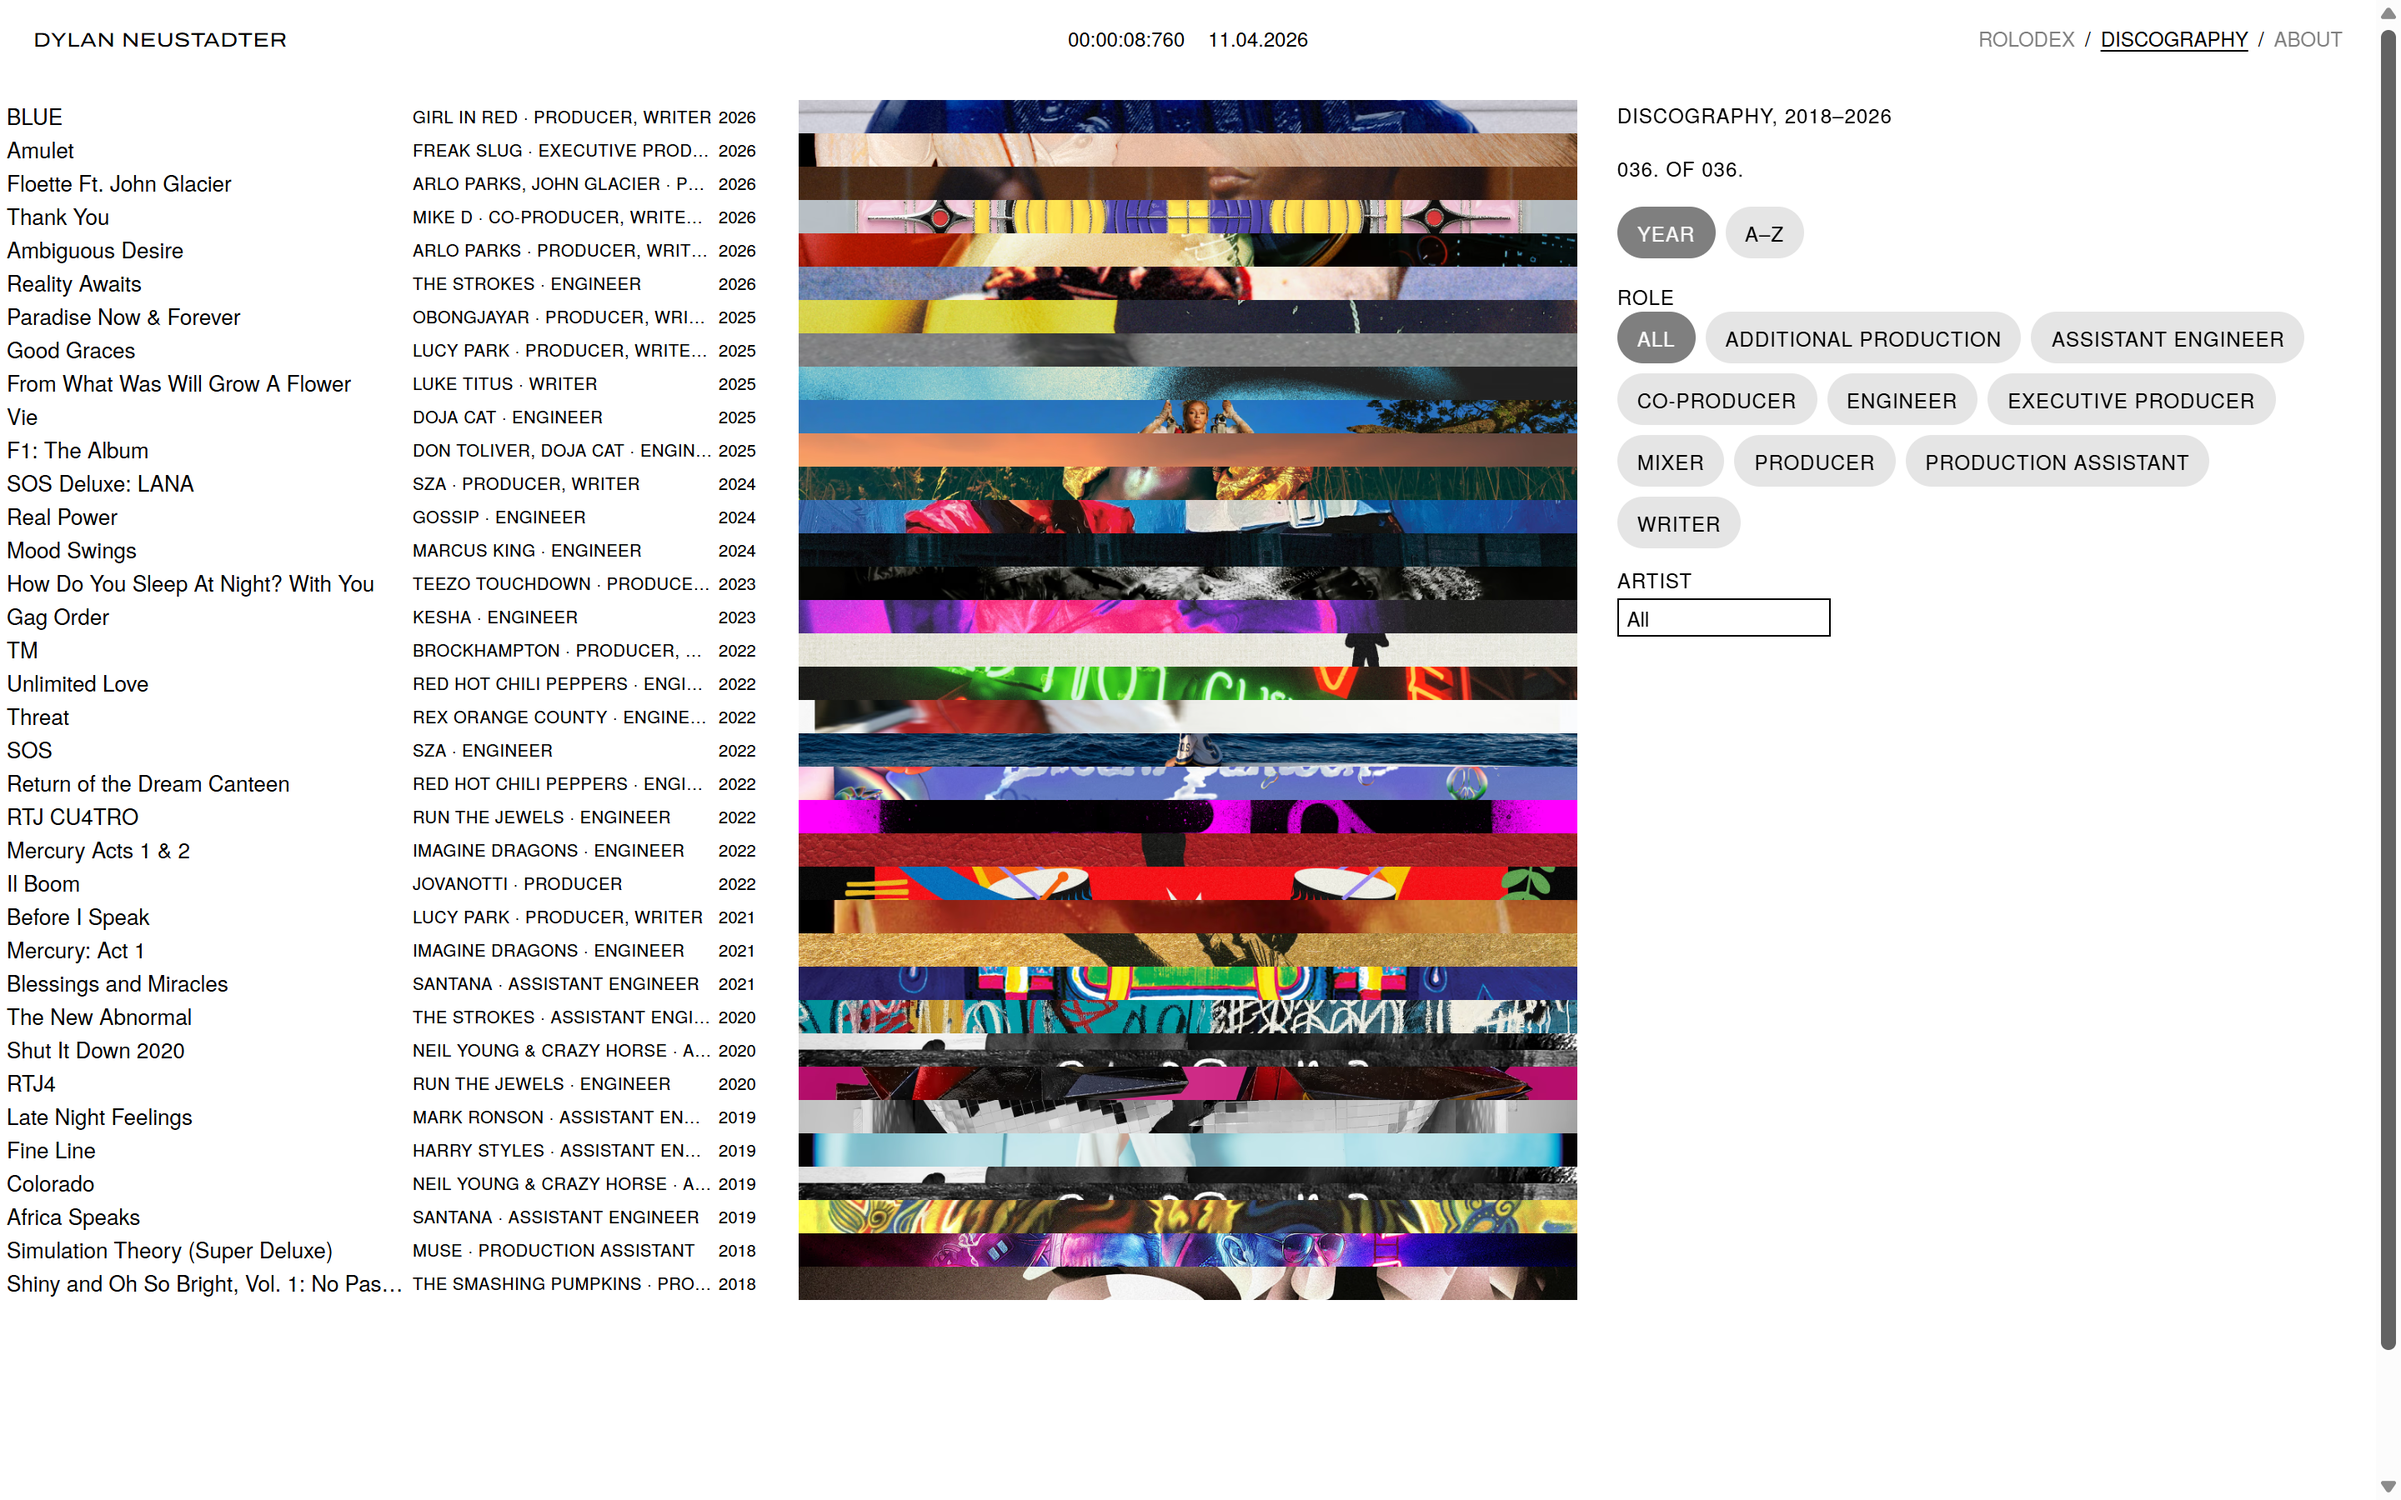
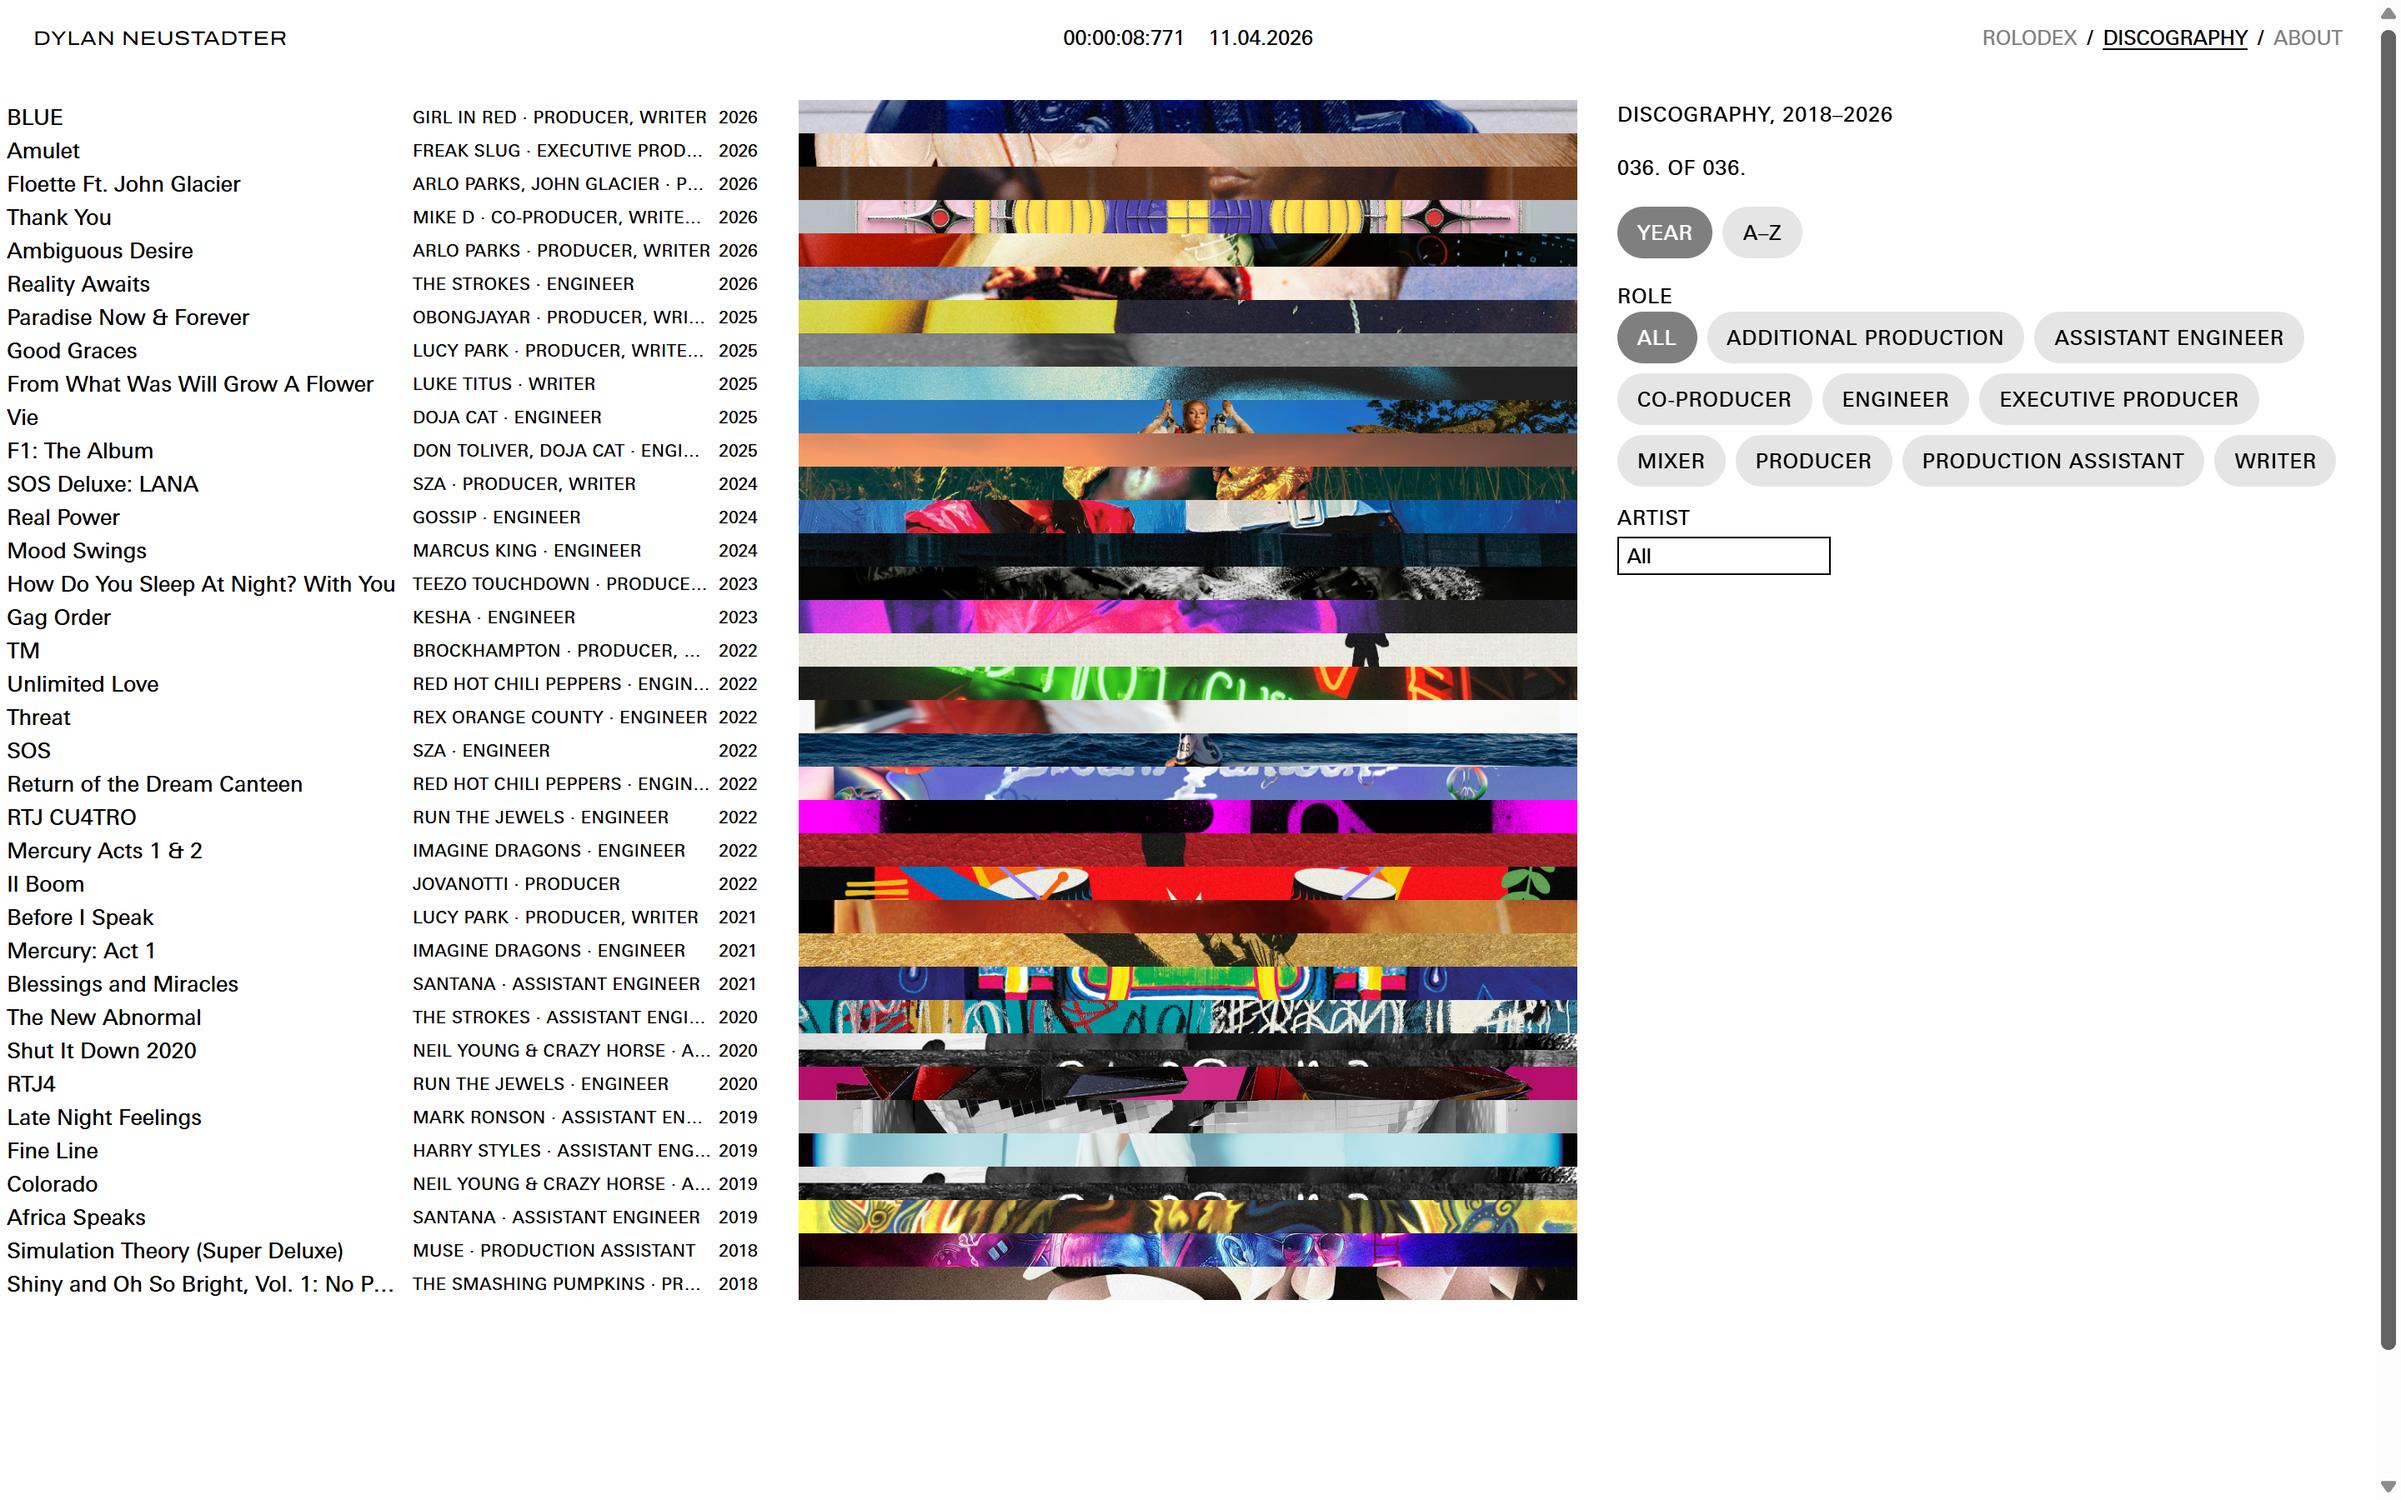
feat(gillenwebsite): Univers Next Pro is the info face; the rest as before
Univers Next Pro (Adobe Fonts kit nsi1nap), the face chosen on sight on the
record's credits panel, is now the site's informational face; TeX Gyre Heros
stands in until it loads. The artist names are back in Archivo (112%), and
Dylan's name stays Archivo (118%). Neue Haas Grotesk Display is gone. One
weight (400) and two faces again; SOURCES.md R2 / R11 updated.

Measured (local production build): every text element in the open record
view is univers-next-pro or Archivo, all 400; the credits panel is Archivo
43.2 px + Univers Next Pro 14.4 px. Record view, discography expand and pills
all still pass (fps min 59.9 desktop / 59.3 throttled phone).

diff --git a/components/gillenwebsite/site.module.css b/components/gillenwebsite/site.module.css
@@ -1,19 +1,19 @@
 /* /gillenwebsite. Each block names its row in docs/gillenwebsite/SOURCES.md; the numbers are the source site's.
    Constraints from the Felix Luke bible (BRAND-BIBLE.md, ed8a2ea), never a source on their own:
-   R1 white ground · R2 one weight per face (info and name 400, artist names 900) · R3 no shadows · R7 capitals typed, never text-transform
-   R9 interface text at 12px · R10 display size rare · R11 faces: info, Dylan's name (title face), artist names (Neue Haas Black) · R15 pinned header and stage */
+   R1 white ground · R2 one weight (400) · R3 no shadows · R7 capitals typed, never text-transform
+   R9 interface text at 12px · R10 display size rare · R11 two faces (info: Univers Next Pro, title: Archivo) · R15 pinned header and stage */
 
 .root {
   --ground: #ffffff;
   --ink: #000000;
-  --mono: var(--font-info), "Nimbus Sans", "Helvetica Neue", Arial, sans-serif;
-  /* Dylan's name (the header, the record view): the title face, Archivo at 118% width, as it always was */
+  /* the info face: Univers Next Pro from the Adobe Fonts kit nsi1nap (layout.tsx); TeX Gyre Heros (fonts.ts) stands
+     in until it loads, or where it cannot */
+  --mono: "univers-next-pro", var(--font-info), "Nimbus Sans", "Helvetica Neue", Arial, sans-serif;
+  /* the title face, Archivo: Dylan's name (header, record view) at 118% width, the artist names at 112% */
   --name: var(--font-title), "Helvetica Neue", Arial, sans-serif;
-  /* the artist names: Neue Haas Grotesk Display Black from the Adobe Fonts kit nsi1nap (layout.tsx); Archivo
-     (next/font) stands in until it loads */
-  --display: "neue-haas-grotesk-display", var(--font-title), "Helvetica Neue", Arial, sans-serif;
+  --display: var(--font-title), "Helvetica Neue", Arial, sans-serif;
   --w-info: 400;
-  --w-display: 900;
+  --w-display: 400;
   --head: 44px;
   background: var(--ground);
   color: var(--ink);
@@ -116,7 +116,7 @@
 @keyframes fadeIn { from { opacity: 0; } to { opacity: 1; } }
 @keyframes fadeOut { from { opacity: 1; } to { opacity: 0; } }
 .info { display: flex; flex-direction: column; gap: 6px; overflow: auto; min-width: 0; animation: fadeIn 0.15s both; }
-.artistName { font: var(--w-display) 28px/1.05 var(--display) !important; text-wrap: balance; margin-top: 4px !important; }
+.artistName { font: var(--w-display) 28px/1.05 var(--display) !important; font-stretch: 112%; text-wrap: balance; margin-top: 4px !important; }
 .releaseTitle { font-size: 12px; }
 /* SOURCES #16 chantalmichelle sup.date{margin-left:.2rem} */
 .date { margin-left: 0.2rem; font-size: 9px; }
@@ -155,7 +155,7 @@
 @keyframes capInDown { from { transform: translateY(-100%); } to { transform: none; } }
 @keyframes capOutDown { from { transform: none; } to { transform: translateY(100%); } }
 .thumb { width: 64px; height: 64px; object-fit: cover; flex: none; display: block; background: #eee; }
-.capArtist { font: var(--w-display) 20px/1.1 var(--display); }
+.capArtist { font: var(--w-display) 20px/1.1 var(--display); font-stretch: 112%; }
 .count { display: grid; gap: 4px; white-space: nowrap; font-variant-numeric: tabular-nums; justify-items: start; }
 .countdown { font-variant-numeric: tabular-nums; }
 .hint { display: block; letter-spacing: 0.5px; }
@@ -314,10 +314,9 @@
 }
 
 /* the record view's credits panel (VinylView.tsx): HTML laid onto the gatefold's right panel in 3D. The About index's
-   grid (SOURCES #20b); Dylan's name in the header's face (Archivo at 118%), the rest in Univers Next Pro from the
-   Adobe Fonts kit nsi1nap (the info face stands in until it has loaded), all at 400 */
+   grid (SOURCES #20b); Dylan's name in the header's face (Archivo at 118%), the rest in the info face, all at 400 */
 .vvLayer { position: absolute; inset: 0; pointer-events: none; }
-.vvPanel { box-sizing: border-box; pointer-events: none; padding: 44px; color: #111; font: 400 14.4px/1.2 "univers-next-pro", var(--mono); transition: opacity 0.12s linear; backface-visibility: hidden; }
+.vvPanel { box-sizing: border-box; pointer-events: none; padding: 44px; color: #111; font: 400 14.4px/1.2 var(--mono); transition: opacity 0.12s linear; backface-visibility: hidden; }
 .vvPanel p { margin: 0; }
 .vvPanel .vvPanelName { font: 400 43.2px/1.05 var(--name); font-stretch: 118%; letter-spacing: 0.02em; margin-bottom: 9px !important; }
 .vvPanel .vvPanelLine { margin-bottom: 29px !important; }

diff --git a/app/gillenwebsite/layout.tsx b/app/gillenwebsite/layout.tsx
@@ -4,9 +4,9 @@ import { releases, about } from "@/lib/gillenwebsite/discography";
 import css from "@/components/gillenwebsite/site.module.css";
 import { info, title } from "./fonts";
 
-// Faces: the info face (fonts.ts, 400) for everything; Dylan's name (the header, the record view) in the title face,
-// Archivo at 118% width, 400; the artist names in Neue Haas Grotesk Display Black (900) from the Adobe Fonts kit
-// nsi1nap, with Archivo standing in until it has loaded or where it cannot. One weight per face (R2).
+// Two faces (bible R11), one weight, 400 (R2): the info face is Univers Next Pro from the Adobe Fonts kit nsi1nap
+// (TeX Gyre Heros, fonts.ts, stands in until it has loaded or where it cannot); the title face is Archivo, for
+// Dylan's name and the artist names.
 // The header, footer, clock and record view persist across the three pages.
 const TYPEKIT = `(function(d) {
     var config = {

diff --git a/docs/gillenwebsite/SOURCES.md b/docs/gillenwebsite/SOURCES.md
@@ -54,14 +54,14 @@ In code, each component carries a `SOURCES #nn` comment that points back to its 
 
 ## Constraints (R-rules; never a source on their own)
 - R1 white ground
-- R2 one weight per face (2026-11-04): the info face and Dylan's name (the title face, Archivo at 118%, in the header and the record view) at 400; the artist names (the caption block, the release panel) in Neue Haas Grotesk Display Black, 900, from the Adobe Fonts kit nsi1nap. The record view's bold name, briefly an exception, is gone.
-- R11 faces (2026-11-04): three, by job: the info face for everything, the title face for Dylan's name, Neue Haas Grotesk Display Black for artist names
+- R2 one weight (400), everywhere
+- R11 (2026-11-04): the info face is Univers Next Pro from the Adobe Fonts kit nsi1nap (TeX Gyre Heros stands in until it loads), chosen on sight on the record's credits panel; the title face is Archivo, for Dylan's name (118% width) and the artist names (112%)
 - R3 no shadows on DOM
 - R4/R5 square, borderless controls, except where the source site draws a border (#08, #23, #24)
 - R7 capitals typed, not transformed
 - R9 most-used size 12px
 - R10 under 10% of text at ≥40px
-- R11 faces: see the 2026-11-04 note above (info, title face for the name, Neue Haas Black for artist names)
+- R11 two faces: see the 2026-11-04 note above
 - R15 pinned header and stage
 - R16 the credit (#31)
 
